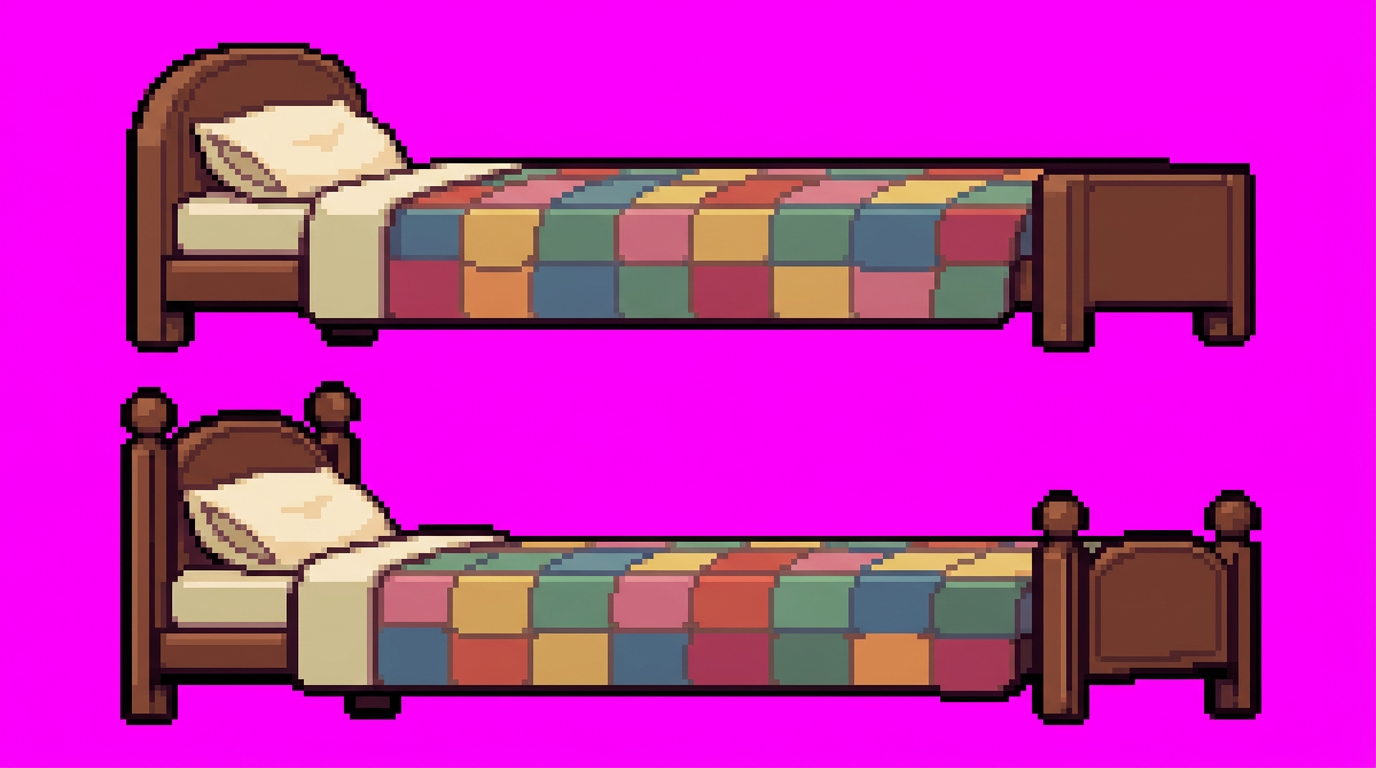
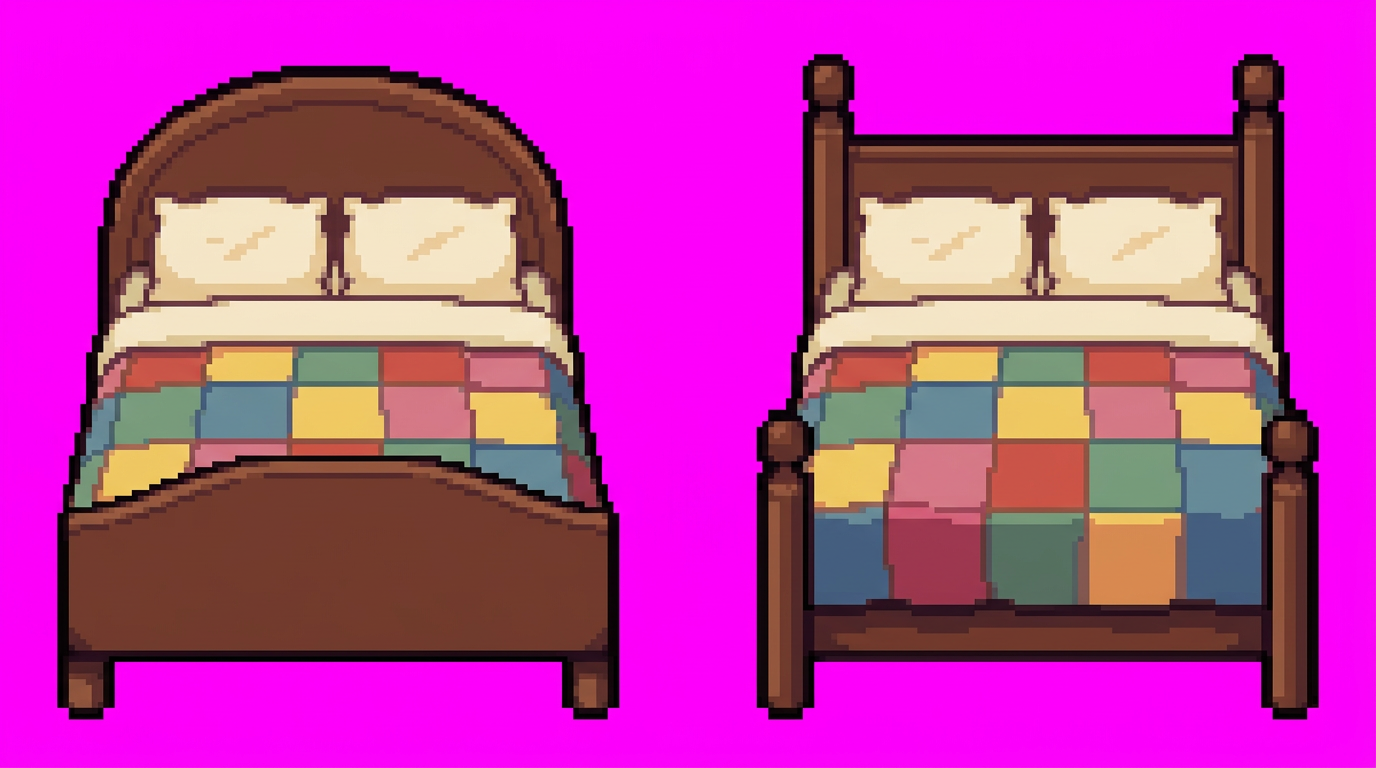
Bed: front view from the foot end instead of side view
The side view read as out of perspective with the floor.

Claude-Session: https://claude.ai/code/session_0148YmhkjLzhVyUFA2HVmUpo

diff --git a/docs/art-pipeline.md b/docs/art-pipeline.md
@@ -99,7 +99,7 @@ The key has a $10 monthly limit.
 
 | Date | Spent | What |
 | --- | --- | --- |
-| 2026-11-11 | ~$0.13 | Bed redrawn in side view (2 tries). |
+| 2026-11-11 | ~$0.20 | Bed redrawn from a lower angle (3 tries). |
 | 2026-11-10 | ~$0.37 | High-res map, wide room (2 tries), armchair redrawn from a lower angle. |
 | 2026-11-08 | ~$1.05 | Animations: 9 creature idle sheets, 6 pet sit/move sheets (owl and dragon redone as flying). |
 | 2026-11-08 | ~$1.14 | Second pass: 5 candidate wizard bases (try 3 kept) + 6 new hair edits, wide windows (2 tries), plants, knick-knacks, decor color variants, stemless mushroom hats. |
@@ -113,5 +113,5 @@ The key has a $10 monthly limit.
 - The mushroom lamp in `decor-a` kept a pink halo and is not exported.
 - `furniture-c` holds the armchair redrawn from a lower camera angle (`ref-armchair` is its reference). The `furniture-a` armchair cell is skipped.
 - The broken plate is exported at half size (`cellScale`).
-- `furniture-d` holds the bed redrawn in side view (`ref-bed` is its reference). The `furniture-a` bed cell is skipped.
+- `furniture-d` holds the bed redrawn from the foot end at eye level (`ref-bed` is its reference). A side view was tried and looked out of perspective with the floor. The `furniture-a` bed cell is skipped.
 - Windows are sliced with `resize: 1.2` (about 2.5 raw pixels per sprite pixel). Their art pixels are about 3 raw pixels, so going bigger would start to show.
